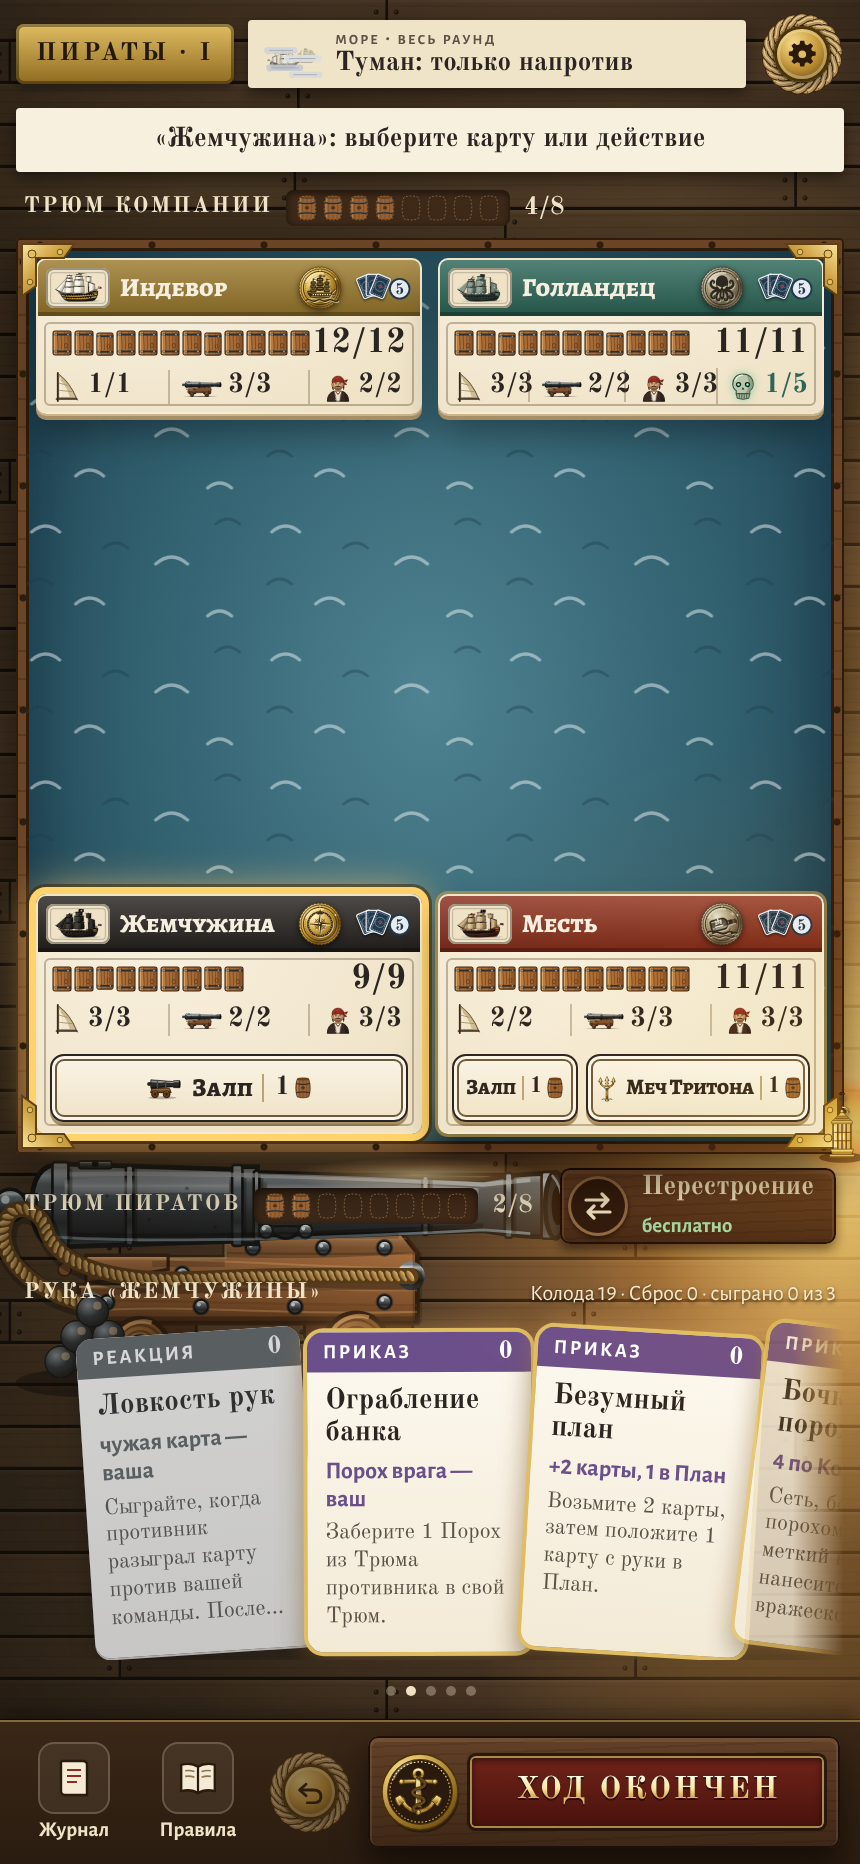
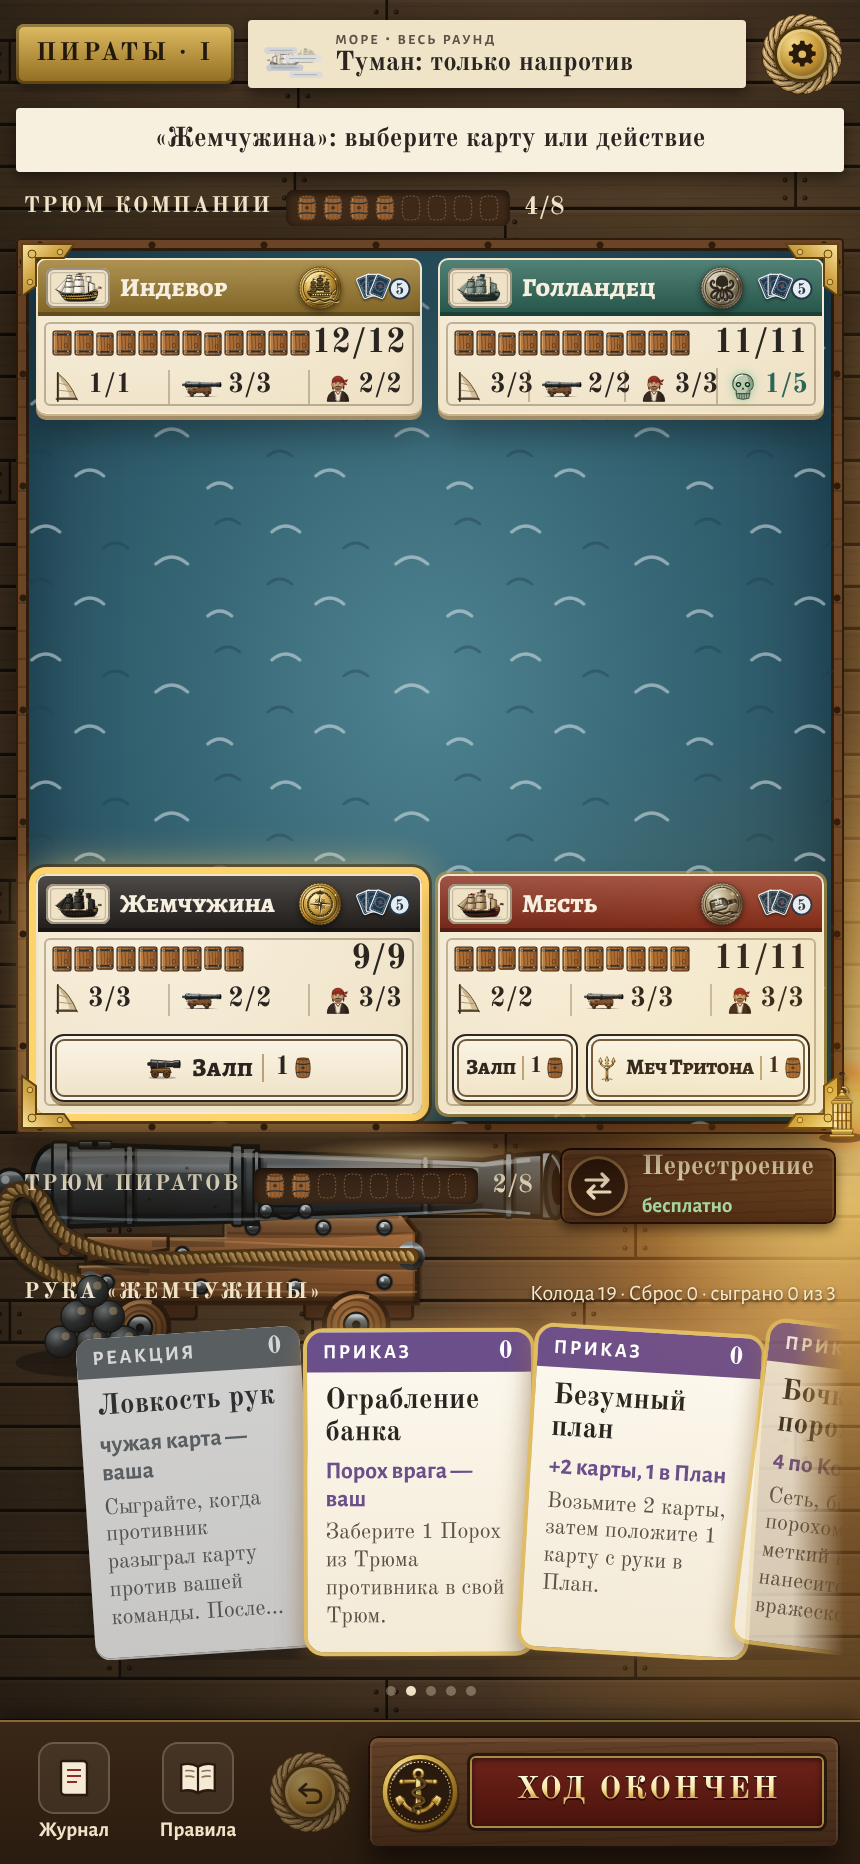
fix-ui: «Палуба» on a phone — the rope of the gun no longer runs through the caption of the hand (the caption 10 px lower)
Claude-Session: https://claude.ai/code/session_01UXS1NUC4XPGowVXMxP1RUW

Changed region(s): [[0.0, 0.4356, 1.0, 0.7468]]

diff --git a/src/ui/game/phone.css b/src/ui/game/phone.css
@@ -977,3 +977,10 @@
     margin-left: 5px;
   }
 }
+
+/* fix-ui: «Палуба» on a phone — the caption of the hand a little lower, under the rope of the gun (it ran through «РУКА «…»») */
+@media (max-width: 700px) {
+  .game.view-hand-deck .hand-head {
+    margin-top: 10px;
+  }
+}
